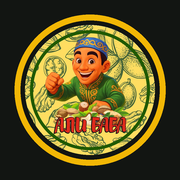
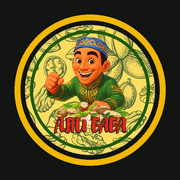
Выпуск 36.5: лёгкие фото, предел ожидания сети, отмена выбора магазина, создание магазина из поиска, маршрут для каждого, временная диагностика (только сайт, Code.gs 36)
- Фото: img/t (400 px) и img/z (1100 px) в WebP, оригиналы остаются как запасной вариант
- sw.js: страница ждёт сеть не дольше 4 с, иконки установки не в кэше, чистка оригиналов в кэше фото
- Логотип и иконки пережаты
- «Отменить»: снятие выбранного магазина, возврат к предыдущему, сохраняется после перезагрузки
- Кнопка «Создать «…»» при пустом поиске магазина
- Маршрут дня: каждый торговый ставит только свои точки
- diag.js: временная диагностика (Настройки → Служебная информация), после анализа удалить

Claude-Session: https://claude.ai/code/session_01HAzXsNWXj8deG45fufCJgB

diff --git a/diag.js b/diag.js
@@ -1,0 +1,112 @@
+/* ВРЕМЕННАЯ ДИАГНОСТИКА (v36.5). Грузится только если включена: «Настройки → Служебная информация → Диагностика».
+   Что делает: замеряет время (запуск, запросы к серверу, синхронизация, отрисовка экранов, запись в память, долгие задачи, плавность), размеры (файлы, память телефона, кэши) и собирает ошибки.
+   Чего НЕ делает: не читает и не показывает содержимое (названия магазинов, заявки, пароли, токен), ничего не отправляет никуда — отчёт копируется вручную. Единственный сетевой запрос от неё — пробный «пинг» без токена: сервер отвечает «нужен вход» и ничего не читает из таблицы.
+   Удалить после разбора: убрать этот файл, строки «diag» в app.js и ключи diag, diag_runs в памяти телефона (кнопка «Выключить» чистит их сама). */
+(function () {
+  if (window.DIAG) return;
+  var PF = typeof performance != 'undefined' ? performance : null, T0 = Date.now();
+  var now = function () { return PF && PF.now ? PF.now() : Date.now() - T0 }, R = Math.round, K = function (n) { return Math.round(n / 102.4) / 10 };
+  var D = window.DIAG = { net: [], f: [], sync: [], vw: {}, lsw: {}, lt: [], ev: [], err: [], crawl: null, fps: null, ping: [], cur: null, lcp: 0, store: null };
+  var sleep = function (ms) { return new Promise(function (r) { setTimeout(r, ms) }) };
+  var of = window.fetch;
+  function host(u) { try { var h = new URL(u, location.href).hostname; return /docs\.google/.test(h) ? 'Google Таблица (прайс)' : /script\.google|googleusercontent/.test(h) ? 'Apps Script' : /fonts\.g/.test(h) ? 'Google Fonts' : h == location.hostname ? 'сайт' : h } catch (e) { return '?' } }
+  function opOf(b) { if (!b || typeof b != 'object') return '?'; if (b.q) return 'чтение:' + b.q; if (b.auth) return 'вход'; if (b.admin) return 'админ:' + String(b.admin.op || ''); if (b.shop) return 'магазин:' + String(b.shop.op || 'правка'); if (b.visit || b.visitOp || b.visitCancel) return 'визит'; if (b.order) return 'заявка'; if (b.orderOp) return 'заявка:' + String(b.orderOp.op || ''); return Object.keys(b).filter(function (k) { return k != 'tok' }).slice(0, 1).join() }
+  function wrap(name, fn) { var o = window[name]; if (typeof o != 'function' || o.__dg) return; var w = function () { return fn.call(this, o, arguments) }; w.__dg = 1; window[name] = w }
+  var push = function (a, x, n) { a.push(x); if (a.length > n) a.shift() };
+
+  // --- запросы к серверу (имя операции, время, размер ответа; тела запросов не сохраняются) ---
+  wrap('rawPost', function (o, a) {
+    var t = now(), e = { op: opOf(a[0]), ms: 0, ok: true, kb: 0 }; push(D.net, e, 300); if (D.cur) D.cur.n++;
+    return o.apply(this, a).then(function (r) { e.ms = R(now() - t); try { e.kb = K(JSON.stringify(r).length) } catch (x) {} e.ok = !(r && r.error); if (!e.ok) e.er = String(r.error).slice(0, 40); return r },
+      function (er) { e.ms = R(now() - t); e.ok = false; e.er = String(er && er.message || er).slice(0, 70); throw er })
+  });
+  if (of) window.fetch = function (u) { var t = now(), h = host(typeof u == 'string' ? u : u && u.url), e = { h: h, ms: 0, st: 0 }; push(D.f, e, 200);
+    return of.apply(this, arguments).then(function (r) { e.ms = R(now() - t); e.st = r.status; return r }, function (er) { e.ms = R(now() - t); e.er = 1; throw er }) };   // время до ответа (заголовков) по каждому адресу
+  wrap('sync', function (o, a) {
+    if (D.cur) return o.apply(this, a); var s = D.cur = { at: Date.now(), n: 0, ms: 0, ops: [] }, t = now(), i0 = D.net.length;
+    return Promise.resolve(o.apply(this, a)).then(function (r) { fin(); return r }, function (er) { fin(); throw er });
+    function fin() { s.ms = R(now() - t); s.ops = D.net.slice(i0).map(function (x) { return x.op + ' ' + x.ms }); D.cur = null; if (s.n) push(D.sync, s, 30) }
+  });
+  ['drawList', 'drawChips', 'fill', 'histView', 'cartView', 'shopsView', 'drawShops', 'planView', 'rgView', 'setView', 'shopCard', 'drawAll', 'drawToday', 'moreView'].forEach(function (n) {   // время отрисовки экранов
+    wrap(n, function (o, a) { var t = now(), r = o.apply(this, a), d = now() - t, e = D.vw[n] || (D.vw[n] = { n: 0, ms: 0, max: 0 }); e.n++; e.ms += d; if (d > e.max) e.max = d; return r })
+  });
+  try { if (typeof Storage != 'undefined' && Storage.prototype.setItem && !Storage.prototype.setItem.__dg) { var os = Storage.prototype.setItem; Storage.prototype.setItem = function (k, v) { var t = now(); os.apply(this, arguments); var d = now() - t, e = D.lsw[k] || (D.lsw[k] = { n: 0, ms: 0, max: 0, kb: 0 }); e.n++; e.ms += d; if (d > e.max) e.max = d; e.kb = K(String(v).length * 2) }; Storage.prototype.setItem.__dg = 1 } } catch (e) {}   // запись в память телефона
+  function obs(type, cb, extra) { try { var o = new PerformanceObserver(function (l) { cb(l.getEntries()) }), p = { type: type, buffered: true }; for (var k in extra || {}) p[k] = extra[k]; o.observe(p) } catch (e) {} }
+  obs('longtask', function (l) { l.forEach(function (e) { push(D.lt, [R(e.startTime), R(e.duration)], 200) }) });
+  obs('event', function (l) { l.forEach(function (e) { if (e.duration >= 100) push(D.ev, [e.name, R(e.duration)], 100) }) }, { durationThreshold: 100 });
+  obs('largest-contentful-paint', function (l) { l.forEach(function (e) { D.lcp = R(e.startTime) }) });
+  var er = function (m) { push(D.err, new Date().toLocaleTimeString('ru') + ' ' + String(m).slice(0, 160), 30) };
+  window.addEventListener('error', function (e) { er((e.message || 'ошибка') + (e.lineno ? ' (строка ' + e.lineno + ')' : '')) });
+  window.addEventListener('unhandledrejection', function (e) { er('promise: ' + (e.reason && e.reason.message || e.reason)) });
+
+  // --- проверки по кнопкам ---
+  D.doPing = async function (n) { D.ping = []; if (!of || typeof CFG == 'undefined' || !CFG.API_URL) return; for (var i = 0; i < (n || 3); i++) { var t = now(), ok = 1; try { var r = await of(CFG.API_URL, { method: 'POST', body: JSON.stringify({ q: 'ping' }) }); await r.text() } catch (e) { ok = 0 } D.ping.push(ok ? R(now() - t) : -1); await sleep(300) } };
+  D.doSync = async function () { if (typeof sync == 'function') { var n = D.sync.length; await sync(); await sleep(200); return D.sync.length > n ? D.sync[D.sync.length - 1] : null } };
+  D.doFps = async function (sec) { var fr = [], last = 0, t0 = now(), y = 0, home = typeof closeSheet == 'function'; try { if (home && typeof view != 'undefined' && view) closeSheet(); window.scrollTo(0, 0) } catch (e) {}
+    await new Promise(function (res) { function tick(ts) { if (last) fr.push(ts - last); last = ts; try { y += 28; window.scrollTo(0, y) } catch (e) {} if (now() - t0 < (sec || 4) * 1000) requestAnimationFrame(tick); else res() } if (typeof requestAnimationFrame == 'function') requestAnimationFrame(tick); else res() });
+    var s = fr.slice().sort(function (a, b) { return a - b }), sum = fr.reduce(function (a, b) { return a + b }, 0);
+    D.fps = fr.length ? { n: fr.length, avg: Math.round(sum / fr.length * 10) / 10, p95: R(s[Math.floor(s.length * .95)]), slow: fr.filter(function (x) { return x > 33 }).length, bad: fr.filter(function (x) { return x > 100 }).length, y: R(y) } : { n: 0 }; try { window.scrollTo(0, 0) } catch (e) {} };
+  D.doStore = async function () { var o = { keys: [], tot: 0, parse: [] }, i, k, v;
+    try { for (i = 0; i < localStorage.length; i++) { k = localStorage.key(i); v = localStorage.getItem(k) || ''; o.keys.push([k, K(v.length * 2)]); o.tot += v.length * 2 } o.keys.sort(function (a, b) { return b[1] - a[1] });
+      o.keys.slice(0, 5).forEach(function (e) { var t = now(); try { JSON.parse(localStorage.getItem(e[0])) } catch (x) {} o.parse.push([e[0], Math.round((now() - t) * 10) / 10]) }) } catch (e) { o.er = String(e.message || e) }
+    try { if (navigator.storage && navigator.storage.estimate) { var q = await navigator.storage.estimate(); o.use = Math.round((q.usage || 0) / 1048576 * 10) / 10; o.quota = Math.round((q.quota || 0) / 1048576) } } catch (e) {}
+    try { if (typeof caches != 'undefined') { o.caches = []; var ks = await caches.keys(); for (i = 0; i < ks.length; i++) { var c = await caches.open(ks[i]); o.caches.push([ks[i], (await c.keys()).length]) } } } catch (e) {}
+    try { if (navigator.serviceWorker) { o.ctl = !!navigator.serviceWorker.controller; var rg = await navigator.serviceWorker.getRegistration(); o.sw = rg ? (rg.active ? rg.active.state : '—') + (rg.waiting ? ' + ждёт обновление' : '') : 'нет' } } catch (e) {}
+    D.store = o };
+  D.doCrawl = async function (pause) { var p = pause == null ? 350 : pause, rows = [], keep = { m: typeof shMode != 'undefined' ? shMode : '', q: typeof shQ != 'undefined' ? shQ : '' }, b0 = (typeof base != 'undefined' && base.filter(function (x) { return x.id })[0]) || null;
+    var steps = [['Каталог', function () { closeSheet(); drawList() }], ['Корзина', function () { cartView() }], ['История', function () { histView() }], ['Маршрут на сегодня', function () { shMode = 'route'; shopsView() }], ['Все магазины', function () { shMode = 'all'; shQ = ''; shopsView() }],
+      ['Поиск «а» в магазинах', function () { shQ = 'а'; drawShops() }], ['Маршрут по дням', function () { shQ = ''; planView() }], ['Общий / мой маршрут', function () { if (typeof rgOk == 'function' && rgOk()) { rgD = ''; rgView() } else throw new Error('недоступен') }],
+      ['Карточка магазина', function () { if (!b0) throw new Error('нет магазинов'); cKey = ''; shopCard(skey(b0)) }], ['Настройки', function () { setView() }], ['Ещё', function () { if (typeof moreView == 'function') moreView(); else throw new Error('нет') }]];
+    for (var i = 0; i < steps.length; i++) { var e0 = D.err.length, n0 = D.net.length, t = now(), er = ''; try { steps[i][1]() } catch (x) { er = String(x && x.message || x).slice(0, 60) } var ms = now() - t; await sleep(p);
+      rows.push({ n: steps[i][0], ms: R(ms), dom: document.getElementsByTagName('*').length, net: D.net.length - n0, er: er || (D.err.length > e0 ? 'ошибка в консоли' : '') }) }
+    try { shMode = keep.m || shMode; shQ = keep.q; closeSheet(); drawList() } catch (x) {} D.crawl = rows };
+
+  // --- отчёт ---
+  var nm = function (u) { try { var x = new URL(u, location.href); return x.origin == location.origin ? x.pathname.replace(/^\//, '').slice(-34) || '/' : host(u) } catch (e) { return '?' } };
+  var mk = function (n) { var m = PF && PF.getEntriesByName ? PF.getEntriesByName(n)[0] : null; return m ? R(m.startTime) : null };
+  var fm = function (v) { return v == null ? '—' : v + ' мс' };
+  D.report = function () { var L = [], H = function (t) { L.push(''); L.push('■ ' + t) }, nv = (PF && PF.getEntriesByType && PF.getEntriesByType('navigation')[0]) || null, c = navigator.connection || {}, n;
+    L.push('ДИАГНОСТИКА Али-Баба · версия ' + (typeof VER != 'undefined' ? VER : '?') + ' · Code.gs ' + (typeof srvV != 'undefined' ? srvV : '?') + ' · роль ' + (typeof role != 'undefined' ? role : '?') + ' · ' + new Date().toLocaleString('ru') + ' · страница открыта ' + R((Date.now() - T0) / 1000) + ' с назад');
+    H('Устройство'); L.push((navigator.userAgent.match(/\((.*?)\)/) || ['', ''])[1].slice(0, 70) + ' · экран ' + screen.width + '×' + screen.height + ' ×' + (window.devicePixelRatio || 1) + ' · ядер ' + (navigator.hardwareConcurrency || '?') + ' · память ' + (navigator.deviceMemory || '?') + ' ГБ');
+    L.push('сеть: ' + (c.effectiveType || '?') + ', ' + (c.downlink || '?') + ' Мбит/с, задержка ' + (c.rtt || '?') + ' мс' + (c.saveData ? ', экономия трафика' : '') + ' · online ' + navigator.onLine + ' · режим ' + (window.matchMedia && matchMedia('(display-mode: standalone)').matches ? 'установленное приложение' : 'вкладка браузера') + ' · SW ' + (navigator.serviceWorker && navigator.serviceWorker.controller ? 'управляет' : 'нет'));
+    H('Запуск (эта загрузка)'); L.push('ответ сервера сайта (TTFB) ' + fm(nv && R(nv.responseStart)) + ' · DOM готов ' + fm(nv && R(nv.domContentLoadedEventEnd)) + ' · load ' + fm(nv && R(nv.loadEventEnd)) + ' · первая отрисовка ' + fm(((PF && PF.getEntriesByName && PF.getEntriesByName('first-contentful-paint')[0]) || {}).startTime && R(PF.getEntriesByName('first-contentful-paint')[0].startTime)) + ' · крупнейший элемент ' + fm(D.lcp || null));
+    L.push('прайс (CSV): старт ' + fm(mk('ab-csv0')) + ' → готов ' + fm(mk('ab-csv1')) + ' · список товаров показан ' + fm(mk('ab-list')) + ' · заставка убрана ' + fm(mk('ab-splash')) + ' · первая синхронизация ' + fm(mk('ab-sync0')) + ' → ' + fm(mk('ab-sync1')));
+    try { var runs = JSON.parse(localStorage.getItem('diag_runs') || '[]'); if (runs.length) { H('Прошлые запуски (старый → новый)'); runs.forEach(function (r) { L.push(r.d + ' · v' + r.v + ' · ' + r.net + ' · SW ' + (r.sw ? 'да' : 'нет') + ' · список ' + fm(r.list) + ' · заставка ' + fm(r.spl) + ' · синхр. ' + fm(r.s0) + '→' + fm(r.s1) + ' · прайс ' + fm(r.c0) + '→' + fm(r.c1) + ' · DOM ' + fm(r.dcl)) }) } } catch (e) {}
+    H('Файлы, загруженные при открытии'); try { var rs = PF.getEntriesByType('resource'), tot = 0, by = {}; rs.forEach(function (r) { var k = r.initiatorType || '?', sz = r.transferSize || 0; tot += sz; (by[k] = by[k] || { n: 0, kb: 0 }).n++; by[k].kb += sz });
+      L.push('всего ' + rs.length + ' шт., по сети ' + K(tot) + ' КБ (кэш = 0 КБ; чужие домены без размера) · ' + Object.keys(by).map(function (k) { return k + ' ' + by[k].n + '/' + K(by[k].kb) + ' КБ' }).join(', '));
+      rs.slice().sort(function (a, b) { return b.duration - a.duration }).slice(0, 12).forEach(function (r) { L.push('  ' + nm(r.name) + ' · ' + r.initiatorType + ' · ' + (r.transferSize ? K(r.transferSize) + ' КБ' : r.decodedBodySize ? 'из кэша' : 'размер скрыт') + ' · ' + R(r.duration) + ' мс') }) } catch (e) { L.push('не получилось: ' + e.message) }
+    H('Запросы к серверу приложения (по операциям)'); var by2 = {}; D.net.forEach(function (x) { var o = by2[x.op] || (by2[x.op] = { n: 0, ms: 0, max: 0, kb: 0, bad: 0 }); o.n++; o.ms += x.ms; if (x.ms > o.max) o.max = x.ms; o.kb += x.kb; if (!x.ok) o.bad++ });
+    var ks = Object.keys(by2); if (!ks.length) L.push('запросов с момента включения не было — нажмите «Замерить синхронизацию»'); ks.sort(function (a, b) { return by2[b].ms - by2[a].ms }).forEach(function (k) { var o = by2[k]; L.push('  ' + k + ' · ' + o.n + ' раз · в среднем ' + R(o.ms / o.n) + ' мс · максимум ' + o.max + ' мс · ответ ' + Math.round(o.kb / o.n * 10) / 10 + ' КБ' + (o.bad ? ' · ошибок ' + o.bad : '')) });
+    H('Время до ответа по адресам (fetch)'); var by3 = {}; D.f.forEach(function (x) { var o = by3[x.h] || (by3[x.h] = { n: 0, ms: 0, max: 0, er: 0 }); o.n++; o.ms += x.ms; if (x.ms > o.max) o.max = x.ms; if (x.er) o.er++ }); Object.keys(by3).forEach(function (k) { var o = by3[k]; L.push('  ' + k + ' · ' + o.n + ' раз · в среднем ' + R(o.ms / o.n) + ' мс · максимум ' + o.max + ' мс' + (o.er ? ' · обрывов ' + o.er : '')) });
+    H('Синхронизации (последние)'); if (!D.sync.length) L.push('нет'); D.sync.slice(-6).forEach(function (s) { L.push('  ' + new Date(s.at).toLocaleTimeString('ru') + ' · всего ' + s.ms + ' мс · запросов ' + s.n + ' → ' + s.ops.join('; ')) });
+    H('Запись в память телефона (localStorage)'); var lk = Object.keys(D.lsw).sort(function (a, b) { return D.lsw[b].ms - D.lsw[a].ms }).slice(0, 8); if (!lk.length) L.push('записей не было'); lk.forEach(function (k) { var o = D.lsw[k]; L.push('  ' + k + ' · ' + o.n + ' раз · всего ' + (Math.round(o.ms * 10) / 10) + ' мс · максимум ' + (Math.round(o.max * 10) / 10) + ' мс · ' + o.kb + ' КБ') });
+    H('Память и кэши'); var s = D.store; if (!s) L.push('не снято — нажмите «Память и кэши»'); else { L.push('localStorage: ' + K(s.tot) + ' КБ (предел обычно ~5000 КБ) · ' + s.keys.slice(0, 8).map(function (k) { return k[0] + ' ' + k[1] }).join(', ')); L.push('разбор JSON крупнейших: ' + s.parse.map(function (k) { return k[0] + ' ' + k[1] + ' мс' }).join(', ')); if (s.use != null) L.push('хранилище сайта: занято ' + s.use + ' МБ из ' + s.quota + ' МБ'); (s.caches || []).forEach(function (c) { L.push('кэш ' + c[0] + ': ' + c[1] + ' файлов') }); if (s.sw) L.push('сервис-воркер: ' + s.sw + ', управляет страницей: ' + s.ctl); if (s.er) L.push('ошибка: ' + s.er) }
+    H('Данные на телефоне'); try { L.push('товаров ' + P.length + ' · магазинов ' + base.length + ' · записей истории ' + shist.length + ' · в очередях: заявки ' + outbox.length + ', магазины ' + shopq.length + ', визиты ' + visq.length + ', удаления ' + delq.length) } catch (e) { L.push('не удалось') }
+    H('Отрисовка экранов (время JS)'); var vk = Object.keys(D.vw); if (!vk.length) L.push('экраны не открывались'); vk.sort(function (a, b) { return D.vw[b].max - D.vw[a].max }).forEach(function (k) { var o = D.vw[k]; L.push('  ' + k + ' · ' + o.n + ' раз · в среднем ' + (Math.round(o.ms / o.n * 10) / 10) + ' мс · максимум ' + (Math.round(o.max * 10) / 10) + ' мс') });
+    H('Страница сейчас'); n = document.getElementsByTagName('*').length; L.push('элементов DOM ' + n + (n > 3000 ? ' (много)' : '') + (PF && PF.memory ? ' · память JS ' + Math.round(PF.memory.usedJSHeapSize / 1048576) + ' МБ из ' + Math.round(PF.memory.jsHeapSizeLimit / 1048576) + ' МБ' : ''));
+    H('Тормоза'); var lt = D.lt.slice().sort(function (a, b) { return b[1] - a[1] }); L.push('долгих задач (>50 мс): ' + D.lt.length + ', суммарно ' + D.lt.reduce(function (a, x) { return a + x[1] }, 0) + ' мс · самые долгие: ' + (lt.slice(0, 5).map(function (x) { return x[1] + ' мс (на ' + x[0] + ')' }).join(', ') || 'нет'));
+    L.push('медленных нажатий (>100 мс до отклика): ' + D.ev.length + ' · ' + (D.ev.slice().sort(function (a, b) { return b[1] - a[1] }).slice(0, 5).map(function (x) { return x[0] + ' ' + x[1] + ' мс' }).join(', ') || 'нет'));
+    if (D.fps) { H('Плавность прокрутки'); L.push(D.fps.n ? 'кадров ' + D.fps.n + ' · средний кадр ' + D.fps.avg + ' мс · 95% кадров быстрее ' + D.fps.p95 + ' мс · медленных (>33 мс) ' + D.fps.slow + ' · зависаний (>100 мс) ' + D.fps.bad + ' · прокручено ' + D.fps.y + ' px' : 'не удалось измерить') }
+    if (D.ping.length) { H('Пинг Apps Script (пустой запрос без токена)'); L.push(D.ping.map(function (x) { return x < 0 ? 'обрыв' : x + ' мс' }).join(' · ') + ' — это время «туда-обратно» без работы с таблицей; всё, что дольше в синхронизации, — работа сервера с листами и данные') }
+    if (D.crawl) { H('Автообход экранов'); D.crawl.forEach(function (r) { L.push('  ' + r.n + ' · ' + r.ms + ' мс · DOM ' + r.dom + ' · запросов ' + r.net + (r.er ? ' · ' + r.er : '')) }) }
+    H('Ошибки'); L.push(D.err.length ? D.err.slice(-10).join('\n') : 'нет');
+    return L.join('\n') };
+
+  // --- запись запуска (для сравнения запусков между собой) ---
+  setTimeout(function () { try { var nv = PF.getEntriesByType('navigation')[0] || {}, c = navigator.connection || {}, a = JSON.parse(localStorage.getItem('diag_runs') || '[]');
+    a.push({ d: new Date().toLocaleString('ru', { day: '2-digit', month: '2-digit', hour: '2-digit', minute: '2-digit' }), v: typeof VER != 'undefined' ? VER : '?', net: (c.effectiveType || '?') + (navigator.onLine ? '' : ' офлайн'), sw: !!(navigator.serviceWorker && navigator.serviceWorker.controller), list: mk('ab-list'), spl: mk('ab-splash'), s0: mk('ab-sync0'), s1: mk('ab-sync1'), c0: mk('ab-csv0'), c1: mk('ab-csv1'), dcl: R(nv.domContentLoadedEventEnd || 0) });
+    localStorage.setItem('diag_runs', JSON.stringify(a.slice(-12))) } catch (e) {} }, 20000);
+
+  // --- окно диагностики ---
+  var BTN = [['ping', 'Пинг сервера ×3'], ['sync', 'Замерить синхронизацию'], ['crawl', 'Автообход экранов'], ['fps', 'Плавность: прокрутка 4 с'], ['store', 'Память и кэши'], ['all', 'Всё сразу']];
+  function paint(msg) { var pre = document.getElementById('dgr'); if (pre) pre.textContent = D.report(); var st = document.getElementById('dgs'); if (st) st.textContent = msg || '' }
+  D.open = function () { openSheet('diag', 'Диагностика (временная)'); document.getElementById('sb').innerHTML = '<p class="m" style="margin:0 2px 10px">Нажмите нужные проверки, потом «Скопировать отчёт» и пришлите текст. В отчёте нет названий магазинов, заявок, паролей и токена — только время и размеры.</p>'
+      + BTN.map(function (b) { return '<button class="ghost" data-dg="' + b[0] + '">' + b[1] + '</button>' }).join('') + '<div id="dgs" class="m" style="margin:8px 2px;min-height:18px"></div><button class="send" data-dg="copy">Скопировать отчёт</button><pre id="dgr" style="white-space:pre-wrap;word-break:break-word;font-size:11px;line-height:1.35;margin:12px 0 0;user-select:text"></pre>'
+      + '<button class="ghost" data-dg="clear">Сбросить замеры</button><button class="ghost" data-dg="off">Выключить диагностику</button>'; D.store || D.doStore().then(function () { paint() }); paint() };
+  async function run(k) { try { if (k == 'ping' || k == 'all') { paint('Пинг…'); await D.doPing(3) } if (k == 'sync' || k == 'all') { paint('Синхронизация…'); await D.doSync() } if (k == 'store' || k == 'all') { paint('Память и кэши…'); await D.doStore() } if (k == 'crawl' || k == 'all') { paint('Обхожу экраны…'); await D.doCrawl(); D.open() } if (k == 'fps' || k == 'all') { paint('Прокрутка 4 с…'); await D.doFps(4); D.open() } paint('Готово') } catch (e) { paint('Ошибка: ' + (e && e.message || e)) } }
+  function copy() { var t = D.report(); function ok() { typeof toast == 'function' && toast('Отчёт скопирован') } function fb() { var a = document.createElement('textarea'); a.value = t; document.body.appendChild(a); a.select(); try { document.execCommand('copy'); ok() } catch (e) { paint('Не скопировалось: выделите текст ниже вручную') } a.remove && a.remove() }
+    try { navigator.clipboard.writeText(t).then(ok, fb) } catch (e) { fb() } }
+  document.addEventListener('click', function (e) { var b = e.target && e.target.closest && e.target.closest('[data-dg]'); if (!b) return; var k = b.dataset.dg;
+    if (k == 'copy') copy(); else if (k == 'clear') { D.net = []; D.f = []; D.sync = []; D.vw = {}; D.lsw = {}; D.lt = []; D.ev = []; D.err = []; D.crawl = null; D.fps = null; D.ping = []; paint('Замеры сброшены') }
+    else if (k == 'off') { try { localStorage.removeItem('diag'); localStorage.removeItem('diag_runs') } catch (x) {} closeSheet(); typeof toast == 'function' && toast('Диагностика выключена: заработает после обновления страницы') } else run(k) });
+})();

diff --git a/sw.js b/sw.js
@@ -1,11 +1,30 @@
 /* Service Worker: офлайн-режим. Файлы сайта — сначала сеть, при её отсутствии — кэш.
    v36.3: фото товаров (папка img/) — в отдельном кэше IMG без версии в имени: выпуск его не стирает, и торговые не качают фото заново
-   по мобильному интернету. Фото отдаётся из кэша сразу, а в фоне обновляется (если файл заменили — новое будет при следующем показе). */
-const C = 'ab-v36-3', IMG = 'ab-img';
-const A = ['./', 'index.html', 'styles.css', 'app.js', 'logo.jpg', 'icon-192.png', 'icon-512.png', 'icon-180.png', 'favicon.ico', 'favicon-32.png', 'manifest.webmanifest'];
+   по мобильному интернету. Фото отдаётся из кэша сразу, а в фоне обновляется (если файл заменили — новое будет при следующем показе).
+   v36.4: страница (index.html) ждёт сеть не дольше NET_MS — при слабом сигнале открывается из кэша, а свежая версия догружается в фоне и будет при следующем запуске.
+   Остальные файлы сайта в этот же запуск берутся оттуда же, откуда страница (иначе версии index.html и app.js смешались бы и вышла красная плашка).
+   Кэш фото при выпуске чистится от полноразмерных оригиналов: показываются лёгкие копии img/t/ и img/z/ (WebP). */
+const C = 'ab-v36-5', IMG = 'ab-img', NET_MS = 4000;
+const A = ['./', 'index.html', 'styles.css', 'app.js', 'logo.jpg', 'favicon.ico', 'favicon-32.png', 'manifest.webmanifest'];   // иконки установки (icon-*.png) в кэш не кладём: нужны только при установке на экран, их берёт сам браузер
+let stale = false;   // страница этого запуска открыта из кэша: сеть не ответила вовремя
 self.addEventListener('install', e => { self.skipWaiting(); e.waitUntil(caches.open(C).then(c => c.addAll(A.map(u => new Request(u, { cache: 'reload' }))))) });
-self.addEventListener('activate', e => e.waitUntil(   // удаляем кэши старых версий сайта; кэш фото оставляем
-  caches.keys().then(ks => Promise.all(ks.filter(k => k != C && k != IMG).map(k => caches.delete(k)))).then(() => self.clients.claim())));
+self.addEventListener('activate', e => e.waitUntil(   // удаляем кэши старых версий сайта; кэш фото оставляем, но убираем из него старые полноразмерные оригиналы
+  caches.keys().then(ks => Promise.all(ks.filter(k => k != C && k != IMG).map(k => caches.delete(k))))
+    .then(() => caches.open(IMG).then(c => c.keys().then(rs => Promise.all(rs.filter(r => /\/img\/[^/]+\.(jpe?g|png)$/i.test(new URL(r.url).pathname)).map(r => c.delete(r))))))
+    .catch(() => {}).then(() => self.clients.claim())));
+function shell(e, r) {   // файл сайта: сеть (всегда сверяясь с сервером), при обрыве или долгом ожидании страницы — кэш
+  const nav = r.mode == 'navigate';
+  const net = fetch(new Request(r, { cache: 'no-cache' })).then(x => {
+    if (x.ok) { const k = x.clone(); e.waitUntil(caches.open(C).then(c => c.put(r, k))) }   // кэшируем только успешные ответы
+    return x;
+  });
+  e.waitUntil(net.catch(() => {}));   // не дать worker'у уснуть, пока в фоне обновляется кэш
+  const cached = () => caches.match(r).then(m => m || (nav ? caches.match('index.html') : null));
+  const last = () => cached().then(m => m || net).catch(() => Response.error());   // кэша нет — ждём сеть сколько потребуется
+  if (!nav && stale) return last();
+  const first = nav ? Promise.race([net.catch(() => null), new Promise(res => setTimeout(() => res(null), NET_MS))]) : net.catch(() => null);
+  return first.then(x => { if (nav) stale = !x; return x || last() });
+}
 self.addEventListener('fetch', e => {
   const r = e.request, u = new URL(r.url);
   if (r.method != 'GET' || u.origin != location.origin) return;     // чужие домены (Google) не трогаем
@@ -17,8 +36,5 @@ self.addEventListener('fetch', e => {
     })));
     return;
   }
-  e.respondWith(fetch(new Request(r, { cache: 'no-cache' })).then(x => {
-    if (x.ok) { const k = x.clone(); e.waitUntil(caches.open(C).then(c => c.put(r, k))) }   // кэшируем только успешные ответы
-    return x;
-  }).catch(() => caches.match(r).then(m => m || (r.mode == 'navigate' ? caches.match('index.html') : Response.error()))));
+  e.respondWith(shell(e, r));
 });

diff --git a/styles.css b/styles.css
@@ -52,6 +52,7 @@ button:disabled{background:var(--bg);color:var(--disabled);border:1px solid var(
 .ocst{flex:1;min-width:0;display:flex;flex-direction:column;gap:1px}.ocst b{font-weight:700;font-size:calc(17px*var(--fz));overflow-wrap:anywhere}
 .ocb{flex:none;min-height:44px;padding:0 12px;background:var(--surface);color:var(--ink);border:1px solid var(--line-strong);border-radius:10px;font-weight:600;font-size:calc(15px*var(--fz))}
 .hfok{margin-top:0;min-height:52px}.hfok[hidden]{display:none}
+.nwq{width:100%;min-height:48px;margin:8px 0 4px;justify-content:center}   /* v36.5: «Создать» из поиска */
 .hfun{margin-top:0;min-height:48px}.hfun[hidden],.hdrform.cmp>.hfun{display:none}   /* v36: «Отменить» в развёрнутой шапке */
 
 /* ===== 5. ПОИСК И ВКЛАДКИ КАТАЛОГА ===== */
@@ -241,6 +242,7 @@ body.lock .bn{display:none}
 body.sh #toast{bottom:calc(var(--bnh) + 12px + env(safe-area-inset-bottom,0px))}
 #toast.on{opacity:1;transform:none;pointer-events:auto}
 #toast button{flex:none;min-height:48px;padding:0 14px;background:transparent;color:var(--on-inverse);border:2px solid var(--on-inverse);border-radius:12px;font-weight:800}
+#toast .t2{display:block;margin-top:3px;font-size:.85em;font-weight:500;opacity:.9}   /* v36.5: второе сообщение под «Отменить»-сообщением */
 #toast .tp{position:absolute;left:0;bottom:0;height:4px;width:100%;background:var(--accent);transform-origin:left;animation:tleft linear forwards}   /* сколько осталось, чтобы нажать «Отменить» */
 @keyframes tleft{to{transform:scaleX(0)}}
 

diff --git a/index.html b/index.html
@@ -2,7 +2,7 @@
 <html lang="ru"><head>
 <meta charset="utf-8">
 <meta name="viewport" content="width=device-width,initial-scale=1,viewport-fit=cover">
-<meta name="ver" content="36.3">
+<meta name="ver" content="36.5">
 <meta name="theme-color" content="#F3F3EE">
 <link rel="manifest" href="manifest.webmanifest">
 <link rel="icon" href="favicon.ico" sizes="any">

diff --git a/CHANGELOG.md b/CHANGELOG.md
@@ -2,6 +2,22 @@
 
 Здесь только вехи, которые меняли работу приложения. Мелкие правки и исправления опечаток не перечислены. Номера версий известны точно только там, где они указаны; ранние этапы сгруппированы по смыслу.
 
+## 36.5 — «Отменить» снимает выбор магазина, «Создать» из поиска, свои точки на будущие дни, лёгкие фото (только сайт, Code.gs остаётся 36; подготовлена, НЕ выпущена)
+Только на имитации (116 тестов) и в Chromium без рабочей таблицы (экран сообщения и кнопки «Создать»). 36.4 отдельно не выпускалась: выпуск идёт сразу с 36.3 на 36.5.
+- «Отменить» в шапке заявки: есть всегда, пока выбран магазин (кроме правки готовой заявки). Если магазин выбирали через «Заявка» из другой точки — возвращает прежний; иначе снимает выбор: заявка как по умолчанию (дата, город и товары в корзине остаются), вернуть можно сообщением «Отменить» в течение 10 с. Состояние «вернуть прежний» теперь переживает перезагрузку страницы (до 12 часов).
+- Сообщение с «Отменить» висит 10 с (было 7). Другое сообщение (например «Скопировано») больше не стирает «Отменить»: оно появляется второй строкой, полоска времени не сбрасывается.
+- «Создать «запрос»» — в «Все магазины», «Добавить точку на сегодня», «Маршрут по дням» и в поиске «Общего маршрута»: кнопка внизу списка, если в поле поиска от 2 символов. Открывает форму «Новый магазин» с названием из запроса; кнопка «Новый» открывает пустую форму, как раньше.
+- Маршрут на будущее: торговый ставит и убирает свои точки на сегодня и вперёд (в «Общем маршруте» свой блок редактируется, чужие — только просмотр; администратор правит всех). Если администратор выключил общий маршрут, торговому остаётся «Мой маршрут на другие дни» — только его блок и свободные точки. Сервер без изменений: он и раньше принимал правку своего маршрута на любую дату.
+- Размер: `logo.jpg` 213 → 64 КБ (560 px, вид тот же), иконки `icon-*.png` в палитре 256 цветов (512 px: 280 → 75 КБ, maskable 249 → 67 КБ), `favicon-32.png` без потерь. Иконки установки убраны из предзагрузки `sw.js` — при каждом выпуске телефон скачивает ~200 КБ вместо ~730 КБ.
+- ВРЕМЕННАЯ диагностика (`diag.js`, удалить после разбора): «Настройки → Служебная информация → Диагностика». Файл грузится, только если включена; отчёт копируется вручную и содержит только время, размеры и имена операций (без названий магазинов, заявок, паролей и токена). Замеряет: запуск (метки `ab-*`, TTFB, первая отрисовка, прайс, заставка, первая синхронизация), каждый запрос к серверу и разбивку синхронизации по операциям, время ответа по адресам, пинг Apps Script без токена, запись в память телефона, размеры памяти и кэшей, отрисовку экранов, долгие задачи и медленные нажатия, плавность прокрутки, ошибки, автообход 11 экранов, сравнение последних 12 запусков.
+- Включает 36.4 (ниже).
+
+## 36.4 — лёгкие фото и ограничение ожидания сети (только сайт, Code.gs остаётся 36; подготовлена, НЕ выпущена)
+Только на имитации (114 тестов): размеры файлов измерены, скорость на телефоне — нет.
+- Фото каталога: плитка — `img/t/имя.webp` (400 px, ~32 КБ, весь каталог 2,2 МБ вместо ~20 МБ), просмотр по нажатию — `img/z/имя.webp` (1100 px, ~116 КБ). Оригиналы `img/имя.jpeg` остаются: на них ссылается прайс; они же запасной вариант, если лёгкая копия не открылась (`picU`, `imgFb`). Ссылки Google Диска и чужие форматы не трогаются.
+- `sw.js` (`ab-v36-4`): страница ждёт сеть не дольше 4 с, потом открывается из кэша; остальные файлы этого запуска — оттуда же (версии не смешиваются); свежая версия догружается в фоне. Из кэша фото при выпуске удаляются полноразмерные оригиналы.
+- Свой шрифт Onest не сделан: из среды ассистента закрыт доступ к npm и GitHub. Остаётся Google Fonts; для замены нужны woff2 (cyrillic + latin).
+
 ## 36.3 — границы ввода, черновик вместо потери заявки, кэш фото (только сайт, Code.gs остаётся 36)
 Только на имитации (112 тестов) и в Chromium. Макеты «до/после» владелец одобрил 16.10.2026. Пункты N1–N9 — повторный аудит (`docs/AUDIT-2026-10-16.md` в проекте).
 - Скидка: 0–50 %; минус и больше 50 — исправляются с сообщением (N1: «−5» увеличивало итог, а сервер заявку отклонял). Выше 20 % при отправке — вопрос «Всё верно?» (опечатка 50 вместо 5).

diff --git a/README.md b/README.md
@@ -138,6 +138,10 @@
 
 **Заявка от имени торгового (администратор).** В оформлении — поле «От имени». Заявка засчитывается выбранному торговому (итоги, последний заказ, маршрут). В правке то же поле переназначает заявку, в том числе старую. В таблице колонка «Торговый» — выбранный (без скобок); кто оформил — в данных заявки и в «Визитах» (колонка «Изменил»). В приложении видно «Марат (оформил Айгуль)».
 
+**36.5 (только сайт, подготовлена, не выпущена; включает 36.4).** «Отменить» снимает выбор магазина (заявка как по умолчанию) и возвращает прежний, «Создать» магазин из пустого поиска, торговый планирует свои точки на будущие дни, лёгкие фото WebP, меньший логотип и иконки.
+
+**36.4 (только сайт, подготовлена, не выпущена).** Фото каталога — лёгкие WebP (плитки 400 px, просмотр 1100 px; оригиналы остаются запасными), страница ждёт сеть не дольше 4 с и открывается из кэша.
+
 **36.3 (только сайт).** Скидка 0–50 % (выше 20 % — вопрос), количество для «шт» — целое и не больше 100 000, начатая заявка не теряется при «Изменить» (уходит в черновики), фото товаров больше не скачиваются заново после каждого обновления.
 
 **36.2 (только сайт).** Поле цены не уходит за край экрана, касание мимо закрывает его; «От имени» свёрнуто в строку; в маршруте — последнее событие дня и кто его сделал.
